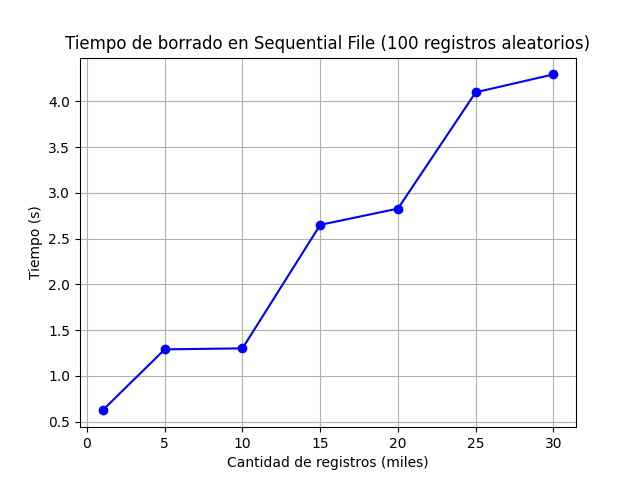
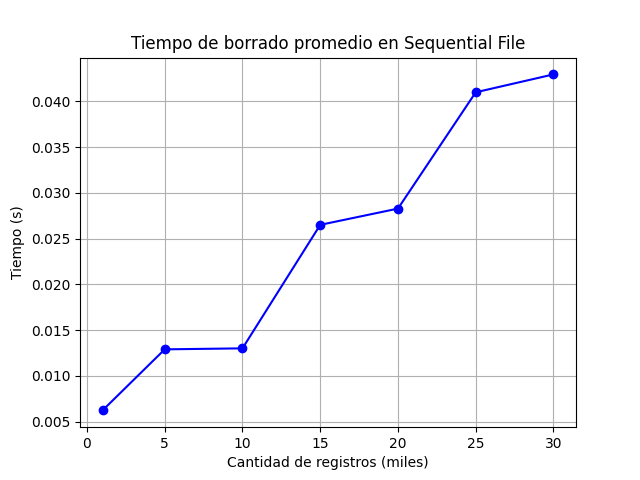
Experiments rtree , sequential

diff --git a/README.md b/README.md
@@ -190,11 +190,23 @@ Para la fase de experimentación de este índice, se utilizó un slice del datas
 
 #### Inserción
 
-#### Search (100 elementos aleatorios)
+![insert_seq](./imgs/insert_seq.png)
+
+#### Search
+
+Se aplicó un ```search()``` a 100 elementos aleatorios, promediando el tiempo final.
+
+![search_seq](./imgs/search_seq.png)
 
 #### Range Search (rango de tamaño 100)
 
-#### Borrado (100 elementos aleatorios)
+![range_seq](./imgs/rangesearch_seq.png)
+
+#### Borrado
+
+Se aplicó un ```remove()``` a 100 elementos aleatorios, promediando el tiempo final.
+
+![remove_seq](./imgs/remove_seq.png)
 
 ---
 
@@ -232,12 +244,24 @@ Para la fase de experimentación de este índice, se utilizó un slice del datas
 
 #### Inserción
 
+![insert_rtree](./imgs/insert_rtree.png)
+
 #### Box Query
+
+![box_rtree](./imgs/box_rtree.png)
 
 #### Radial Query
 
+![radial_rtree](./imgs/radial_rtree.png)
+
 #### 100-Nearest Neighbors
 
-#### Borrado (100 elementos aleatorios)
+![knn_rtree](./imgs/knn_rtree.png)
+
+#### Borrado
+
+Se aplicó un ```remove()``` a 100 elementos aleatorios, promediando el tiempo final.
+
+![remove_rtree](./imgs/remove_rtree.png)
 
 ---
